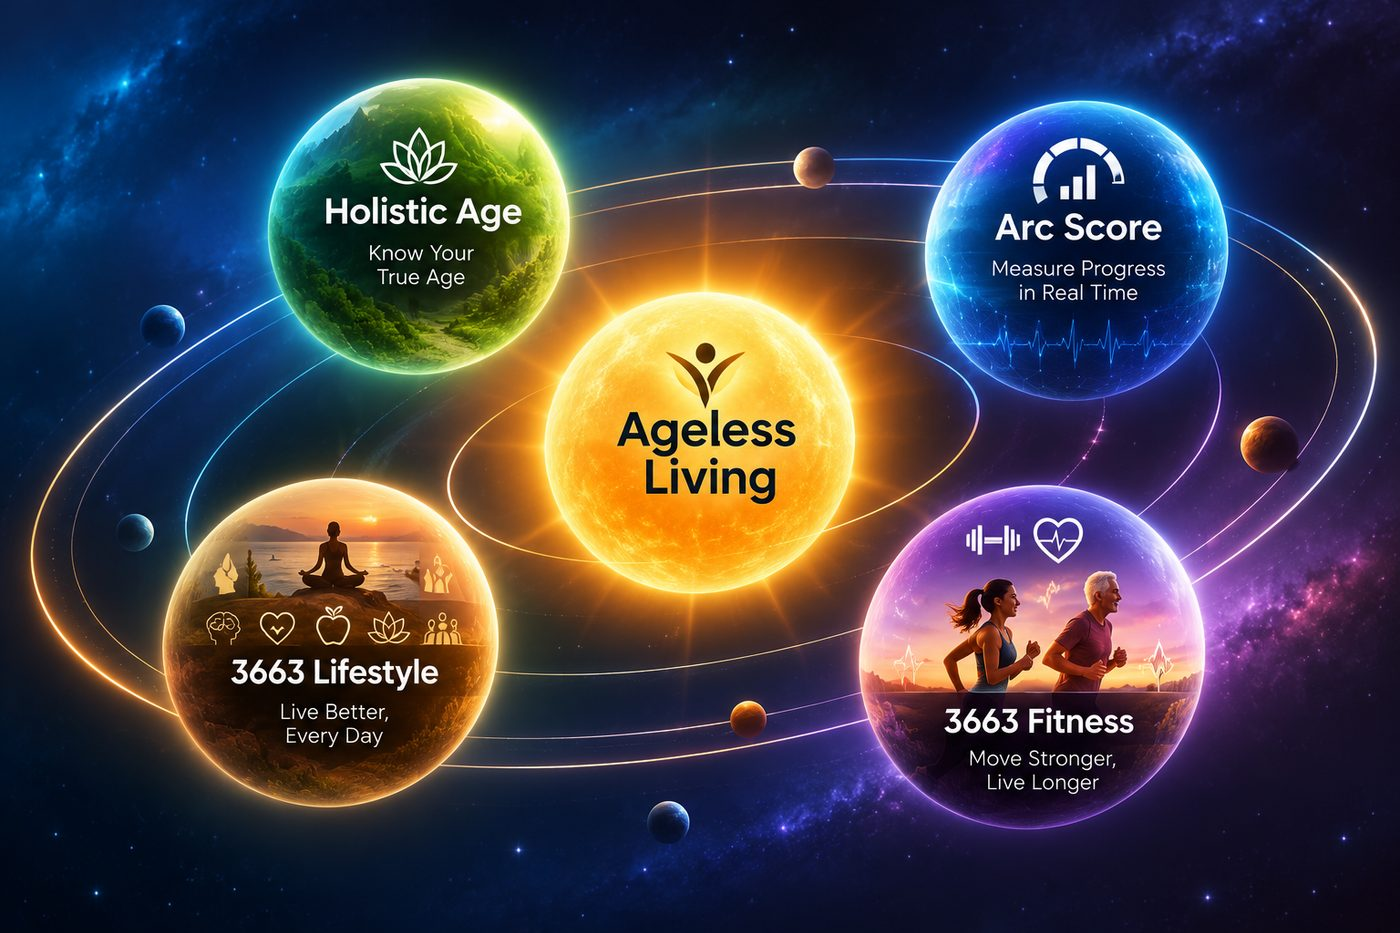
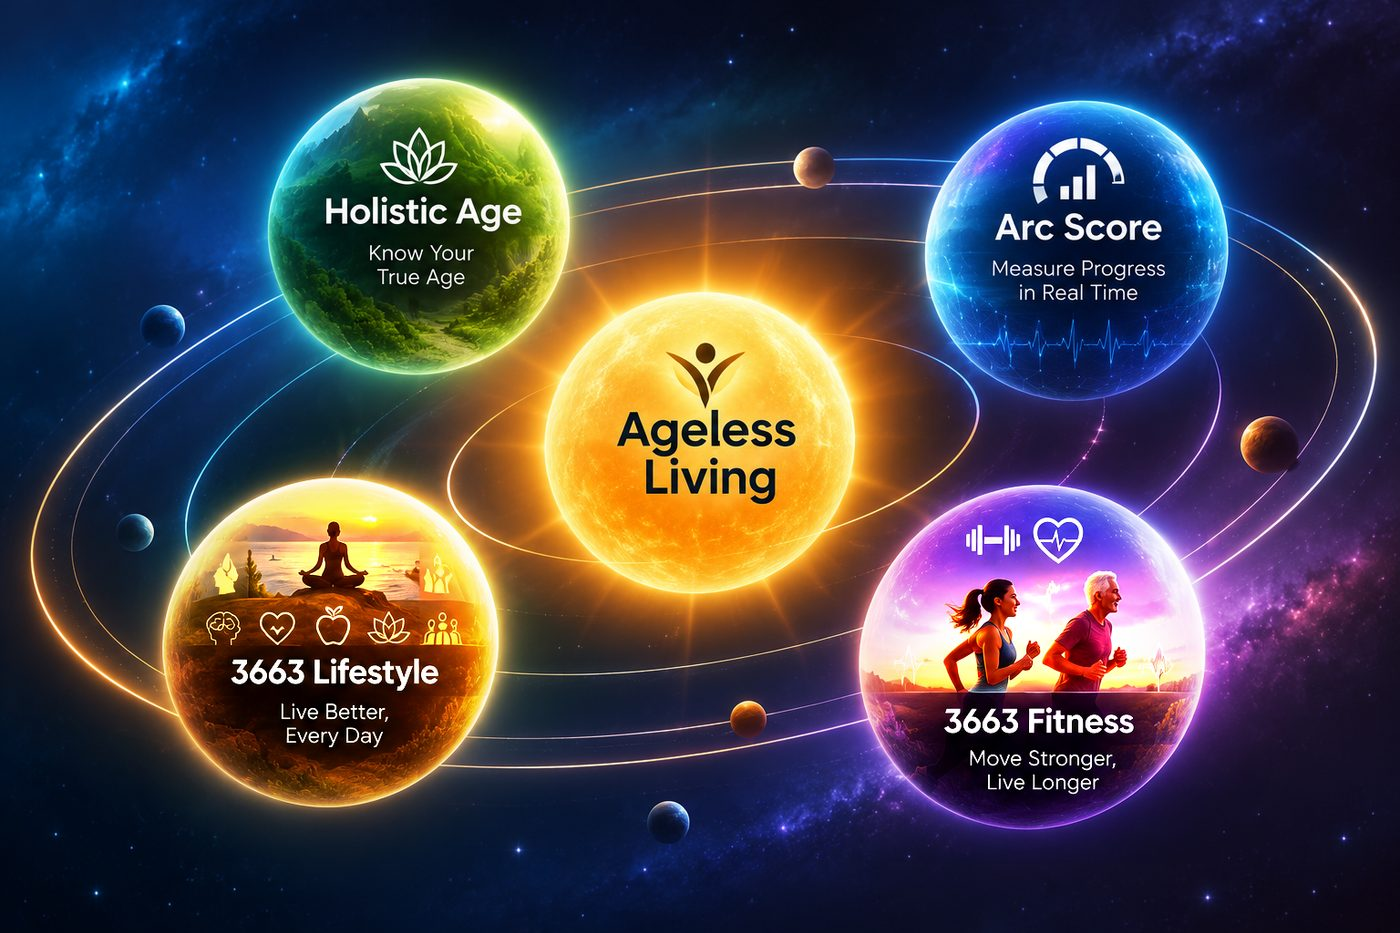
Make About Us hero image full-bleed and brighten dim spheres
Sizes the hero section by the image's own aspect ratio (1400/933)
instead of an arbitrary vh/max-height, so object-cover spans edge-to-
edge with zero crop and zero letterbox — the previous fix for cropped
components had introduced empty side margins instead.

Also brightens the 3663 Lifestyle and 3663 Fitness spheres, which
render dimmer/less saturated than Holistic Age and Arc Score in the
source graphic. process-hero-images.mjs boosts brightness/saturation
only within those two circular regions and blends the result back in
with a feathered alpha mask, so there's no visible hard edge.

Changed region(s): [[0.6143, 0.4973, 0.8907, 0.9014], [0.0921, 0.4973, 0.3686, 0.8703], [0.645, 0.8392, 0.6757, 0.8703]]

diff --git a/src/app/(public)/about/page.tsx b/src/app/(public)/about/page.tsx
@@ -35,15 +35,16 @@ const PRODUCTS = [
 export default function AboutPage() {
   return (
     <div>
-      <section className="relative isolate h-[38vh] min-h-[280px] max-h-[440px] overflow-hidden">
-        {/* object-contain (not cover) so the whole diagram — every orbiting component — stays
-            visible within this band instead of being cropped at the top/bottom edges. */}
+      <section className="relative isolate aspect-[1400/933] overflow-hidden">
+        {/* The section's aspect ratio matches the source image exactly, so
+            object-cover spans edge-to-edge with zero crop and zero letterbox —
+            every orbiting component stays fully visible at any viewport width. */}
         <Image
           src="/about/interconnected-apps.jpg"
           alt="Ageless Living at the center, connected to Holistic Age, Arc Score, 3663 Lifestyle, and 3663 Fitness"
           fill
           priority
-          className="object-contain"
+          className="object-cover"
         />
         {/* Lightens the source graphic's saturated space theme so it doesn't clash with the site's airy palette, and fades to white at the bottom so it melts into the page instead of cutting off sharply. */}
         <div className="absolute inset-0 bg-white/15" />
